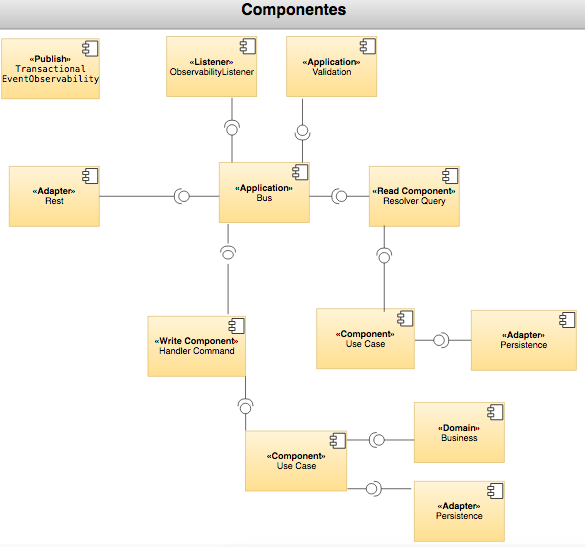
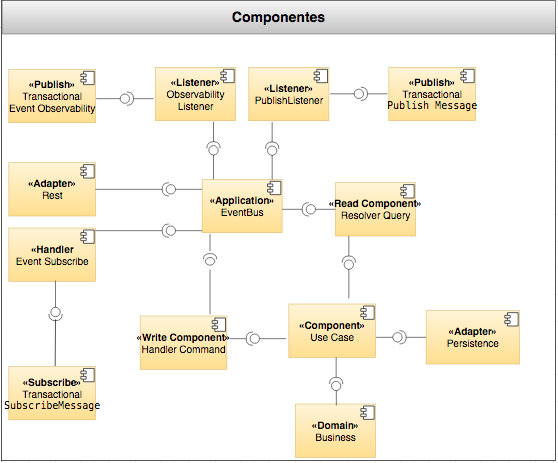
Melhoria na logica de eventos

diff --git a/dominio-conformidades/inspecao/inspecao-adapter-rest/src/main/java/br/com/easy/quality/inspecao/rest/api/InspecaoApiController.java b/dominio-conformidades/inspecao/inspecao-adapter-rest/src/main/java/br/com/easy/quality/inspecao/rest/api/InspecaoApiController.java
@@ -16,14 +16,12 @@ import org.springframework.beans.factory.annotation.Autowired;
 import org.springframework.http.HttpStatus;
 import org.springframework.http.ResponseEntity;
 import org.springframework.stereotype.Controller;
-import org.springframework.web.bind.annotation.PathVariable;
 import org.springframework.web.bind.annotation.RequestBody;
 
-import br.com.easy.quality.bus.service.ServiceBus;
 import br.com.easy.quality.inspecao.command.CreateInspecaoPublishCommand;
 import br.com.easy.quality.inspecao.dto.InspecaoDTO;
-import br.com.easy.quality.inspecao.query.IdInspecaoQuery;
 import br.com.easy.quality.inspecao.query.ListAllInspecaoQuery;
+import br.com.easy.quality.inspecao.rest.application.EventBus;
 import io.swagger.annotations.ApiParam;
 
 @Controller
@@ -32,19 +30,19 @@ public class InspecaoApiController implements InspecaoApi {
 	private static final Logger log = LoggerFactory.getLogger(InspecaoApiController.class);
 
 	@Autowired
-	private ServiceBus serviceBus;
+	private EventBus eventBus;
 
 	public ResponseEntity<Void> criarInspecao(
 			@ApiParam(value = "Objeto utilizado para adicionar nova inspecao", required = true) @Valid @RequestBody InspecaoDTO body) {
 		var comando = new CreateInspecaoPublishCommand(body);
-		serviceBus.execute(comando);
+		eventBus.execute(comando);
 		return new ResponseEntity<Void>(HttpStatus.CREATED);
 	}
 	
 	@Override
 	public ResponseEntity<List<InspecaoDTO>> getInspecoes() {
 		var query = ListAllInspecaoQuery.builder().build();
-		serviceBus.execute(query);
+		eventBus.execute(query);
 		return ResponseEntity.ok(query.getResult());
 	}
 

diff --git a/dominio-conformidades/easy-quality-bus/src/main/java/br/com/easy/quality/bus/service/ServiceBus.java b/dominio-conformidades/easy-quality-bus/src/main/java/br/com/easy/quality/bus/service/ServiceBus.java
@@ -10,7 +10,6 @@ import org.springframework.stereotype.Service;
 import br.com.easy.quality.bus.exception.ServiceBusInvalidObjectException;
 import br.com.easy.quality.event.CommandEvent;
 import br.com.easy.quality.event.ObservabilityEvent;
-import br.com.easy.quality.event.PublishEvent;
 import br.com.easy.quality.event.QueryEvent;
 import br.com.easy.quality.event.command.Command;
 import br.com.easy.quality.event.command.Handler;
@@ -20,8 +19,8 @@ import br.com.easy.quality.event.query.Resolver;
 @Service
 public class ServiceBus {
 
-	private ApplicationContext context;
-	private ApplicationEventPublisher publisher;
+	protected ApplicationContext context;
+	protected ApplicationEventPublisher publisher;
 
 	public ServiceBus(ApplicationContext context, ApplicationEventPublisher publisher) {
 		this.context = context;
@@ -38,7 +37,6 @@ public class ServiceBus {
 		execute(event);
 	}
 	
-
 	private void execute(ObservabilityEvent event) {
 		try {
 			run(event);
@@ -50,18 +48,6 @@ public class ServiceBus {
 			publisher.publishEvent(event);
 		}
 	}
-	
-	public void execute(PublishEvent event) {
-		try {
-			publisher.publishEvent(event);
-		} catch (Exception exception) {
-			event.setException(exception);
-			throw exception;
-		} finally {
-			event.stopTimer();
-		}
-	}
-	
 	
 
 	private void run(ObservabilityEvent event) {

diff --git a/dominio-conformidades/easy-quality-event/src/main/java/br/com/easy/quality/event/PublishEvent.java b/dominio-conformidades/easy-quality-event/src/main/java/br/com/easy/quality/event/PublishEvent.java
@@ -11,18 +11,14 @@ import com.fasterxml.jackson.databind.ObjectMapper;
 import com.fasterxml.jackson.databind.node.ObjectNode;
 
 import br.com.easy.quality.event.Exception.DomainException;
-import br.com.easy.quality.event.command.Command;
-import lombok.Data;
+import br.com.easy.quality.event.command.PublishCommand;
 
-@Data
-public class PublishEvent implements Event {
+public class PublishEvent extends ObservabilityEvent {
 
-	private Exception exception;
-	private final Command command;
+	private final PublishCommand command;
 	private String id;
-	private long stopTime;
 
-	public PublishEvent(Command command) {
+	public PublishEvent(PublishCommand command) {
 		this.command = command;
 		id = gerarGUID();
 	}
@@ -88,13 +84,10 @@ public class PublishEvent implements Event {
 		return id;
 	}
 
-	public Command getCommand() {
+	public PublishCommand getCommand() {
 		return command;
 	}
 
-	public void setException(Exception exception) {
-		this.exception = exception;
-	}
 
 	public String getOrigin() {
 		return getSource().getClass().getSimpleName();
@@ -104,11 +97,4 @@ public class PublishEvent implements Event {
 		return !isSuccess();
 	}
 
-	public boolean isSuccess() {
-		return exception == null;
-	}
-
-	public void stopTimer() {
-		stopTime = System.nanoTime();
-	}
 }

diff --git a/dominio-conformidades/inspecao/inspecao-adapter-rest/src/main/java/br/com/easy/quality/inspecao/rest/application/EventBus.java b/dominio-conformidades/inspecao/inspecao-adapter-rest/src/main/java/br/com/easy/quality/inspecao/rest/application/EventBus.java
@@ -1,0 +1,38 @@
+/**
+ * @author rianmachado@gmail.com
+ */
+package br.com.easy.quality.inspecao.rest.application;
+
+import org.springframework.context.ApplicationContext;
+import org.springframework.context.ApplicationEventPublisher;
+import org.springframework.stereotype.Service;
+
+import br.com.easy.quality.bus.service.ServiceBus;
+import br.com.easy.quality.event.PublishEvent;
+import br.com.easy.quality.event.command.PublishCommand;
+
+@Service
+public class EventBus extends ServiceBus {
+
+	public EventBus(ApplicationContext context, ApplicationEventPublisher publisher) {
+		super(context, publisher);
+	}
+
+	public void execute(PublishCommand command) {
+		var event = new PublishEvent(command);
+		execute(event);
+	}
+
+	public void execute(PublishEvent event) {
+		try {
+			publisher.publishEvent(event);
+		} catch (Exception exception) {
+			event.setException(exception);
+			throw exception;
+		} finally {
+			event.stopTimer();
+		}
+	}
+	
+
+}

diff --git a/dominio-conformidades/inspecao/inspecao-command-query/src/main/java/br/com/easy/quality/inspecao/command/CreateInspecaoPublishCommand.java b/dominio-conformidades/inspecao/inspecao-command-query/src/main/java/br/com/easy/quality/inspecao/command/CreateInspecaoPublishCommand.java
@@ -10,7 +10,7 @@ import javax.validation.constraints.NotNull;
 
 import org.apache.commons.collections4.CollectionUtils;
 
-import br.com.easy.quality.event.command.Command;
+import br.com.easy.quality.event.command.PublishCommand;
 import br.com.easy.quality.inspecao.command.validation.SelfValidating;
 import br.com.easy.quality.inspecao.domain.Pergunta;
 import br.com.easy.quality.inspecao.domain.Questionario;
@@ -20,7 +20,7 @@ import lombok.Setter;
 
 @Getter
 @Setter
-public class CreateInspecaoPublishCommand extends SelfValidating<CreateInspecaoPublishCommand> implements Command {
+public class CreateInspecaoPublishCommand extends SelfValidating<CreateInspecaoPublishCommand> implements PublishCommand {
 
 	@NotNull
 	private final String titulo;

diff --git a/dominio-conformidades/inspecao/inspecao-adapter-rest/src/main/java/br/com/easy/quality/inspecao/rest/application/InspecaoPlublishListener.java b/dominio-conformidades/inspecao/inspecao-adapter-rest/src/main/java/br/com/easy/quality/inspecao/rest/application/InspecaoPlublishListener.java
@@ -1,7 +1,7 @@
 /**
  * @author rianmachado@gmail.com
  */
-package br.com.easy.quality.inspecao.event.listener;
+package br.com.easy.quality.inspecao.rest.application;
 
 import org.slf4j.Logger;
 import org.slf4j.LoggerFactory;

diff --git a/dominio-conformidades/easy-quality-event/src/main/java/br/com/easy/quality/event/command/PublishCommand.java b/dominio-conformidades/easy-quality-event/src/main/java/br/com/easy/quality/event/command/PublishCommand.java
@@ -1,0 +1,10 @@
+/**
+ * @author rianmachado@gmail.com
+ */
+package br.com.easy.quality.event.command;
+
+public interface PublishCommand {
+
+	 String getBodyJson();
+
+}
